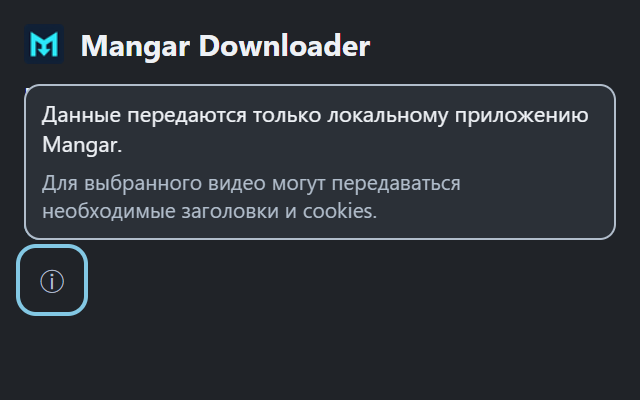
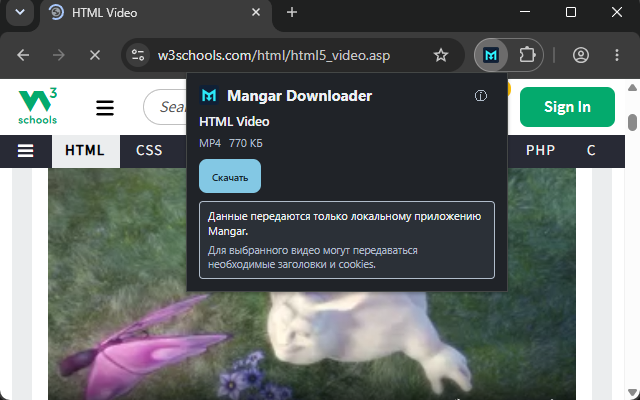
Обновить финальные снимки Chrome Web Store для расширения 1.0.2

diff --git a/docs/cws/1.0.2/README.md b/docs/cws/1.0.2/README.md
@@ -1,11 +1,11 @@
 # Store screenshots — расширение 1.0.2
 
-Текущие PNG показывают прежнюю компоновку popup из commit `c69e63c`. После перехода privacy-панели в поток документа они устарели и не предназначены для публикации. Новый Store-комплект нужно подготовить после визуального принятия layout владельцем; в рамках исправления layout эти PNG не переснимались.
+Финальные PNG пересняты 15 октября 2026 года после визуального принятия владельцем popup из commit `e02b637cc34c6e8e11651b2bcc7b0b792a41c8e8`. Они заменяют прежние изображения с большой privacy-секцией и footer.
 
-Три PNG, 640×400: поддерживаемая страница YouTube, обнаруженный MP4 на публичной W3Schools HTML5 video page и открытый privacy overlay с клавиатурным фокусом. Это настоящие снимки action popup отдельного Chrome profile, без mockup, DevTools, персональных данных и служебных баннеров. Chrome Page.captureScreenshot снимал область 320×200 CSS px в масштабе 2×; текст, данные и элементы popup не дорисовывались. Эта область больше естественной высоты закрытого popup и оставляет лишний фон снизу; для визуальной проверки новой компоновки нужны снимки фактических размеров окна.
+Три PNG, 640×400, RGB без alpha: поддерживаемая страница YouTube, обнаруженный MP4 на публичной W3Schools HTML5 video page и та же media-карточка с раскрытой privacy-панелью. Это настоящие снимки Chrome с action popup отдельного чистого профиля, без mockup, DevTools, персональных данных и служебных баннеров. Захвачена область окна браузера 640×400 при масштабе 1×, без изменения размера и дорисовки. Popup сохраняет естественную высоту 111/132/218 px; header неподвижен, ⓘ справа, panel в потоке, radius 4 px, весь текст виден без внутреннего scrollbar.
 
-Runtime-файлы получены штатным production exporter 1.0.2 и сверяются с итоговым ZIP из clean commit. Для связи тестового Chrome с установленным host только в отдельную unpacked копию manifest добавлен repository dev public key; ZIP не менялся. Такая проверка не заменяет acceptance обновления, установленного из Store после публикации.
[1 lines of base64/hex data omitted]
 
-`node scripts/cws-store-assets.mjs` проверяет размеры и экспортирует эти PNG вместе с актуальной packaged icon 128×128 в `dist/release/1.0.2/store/`. Временные captures и test profiles в Git не входят.
+`node scripts/cws-store-assets.mjs` проверяет размеры и экспортирует эти PNG вместе с актуальной packaged icon 128×128 в `dist/release/1.0.2/store/`. На рабочем столе файлы называются `01-page.png`, `02-media.png`, `03-privacy.png`. Чистая папка `Mangar Downloader - Chrome Web Store 1.0.2` содержит только ZIP, эти три PNG и `ИНСТРУКЦИЯ.txt`; отдельная замена Store icon не требуется. Временные captures и test profiles в Git не входят.
 
 Требования CWS проверены 15 октября 2026 года: [официальные правила изображений](https://developer.chrome.com/docs/webstore/images). Допускается от одного до пяти screenshots, PNG/JPEG, 640×400 либо 1280×800. Старые screenshots с прежним popup нужно заменить всеми тремя файлами из этой папки; существующие promo tiles не требуют замены, если не содержат старого интерфейса.
